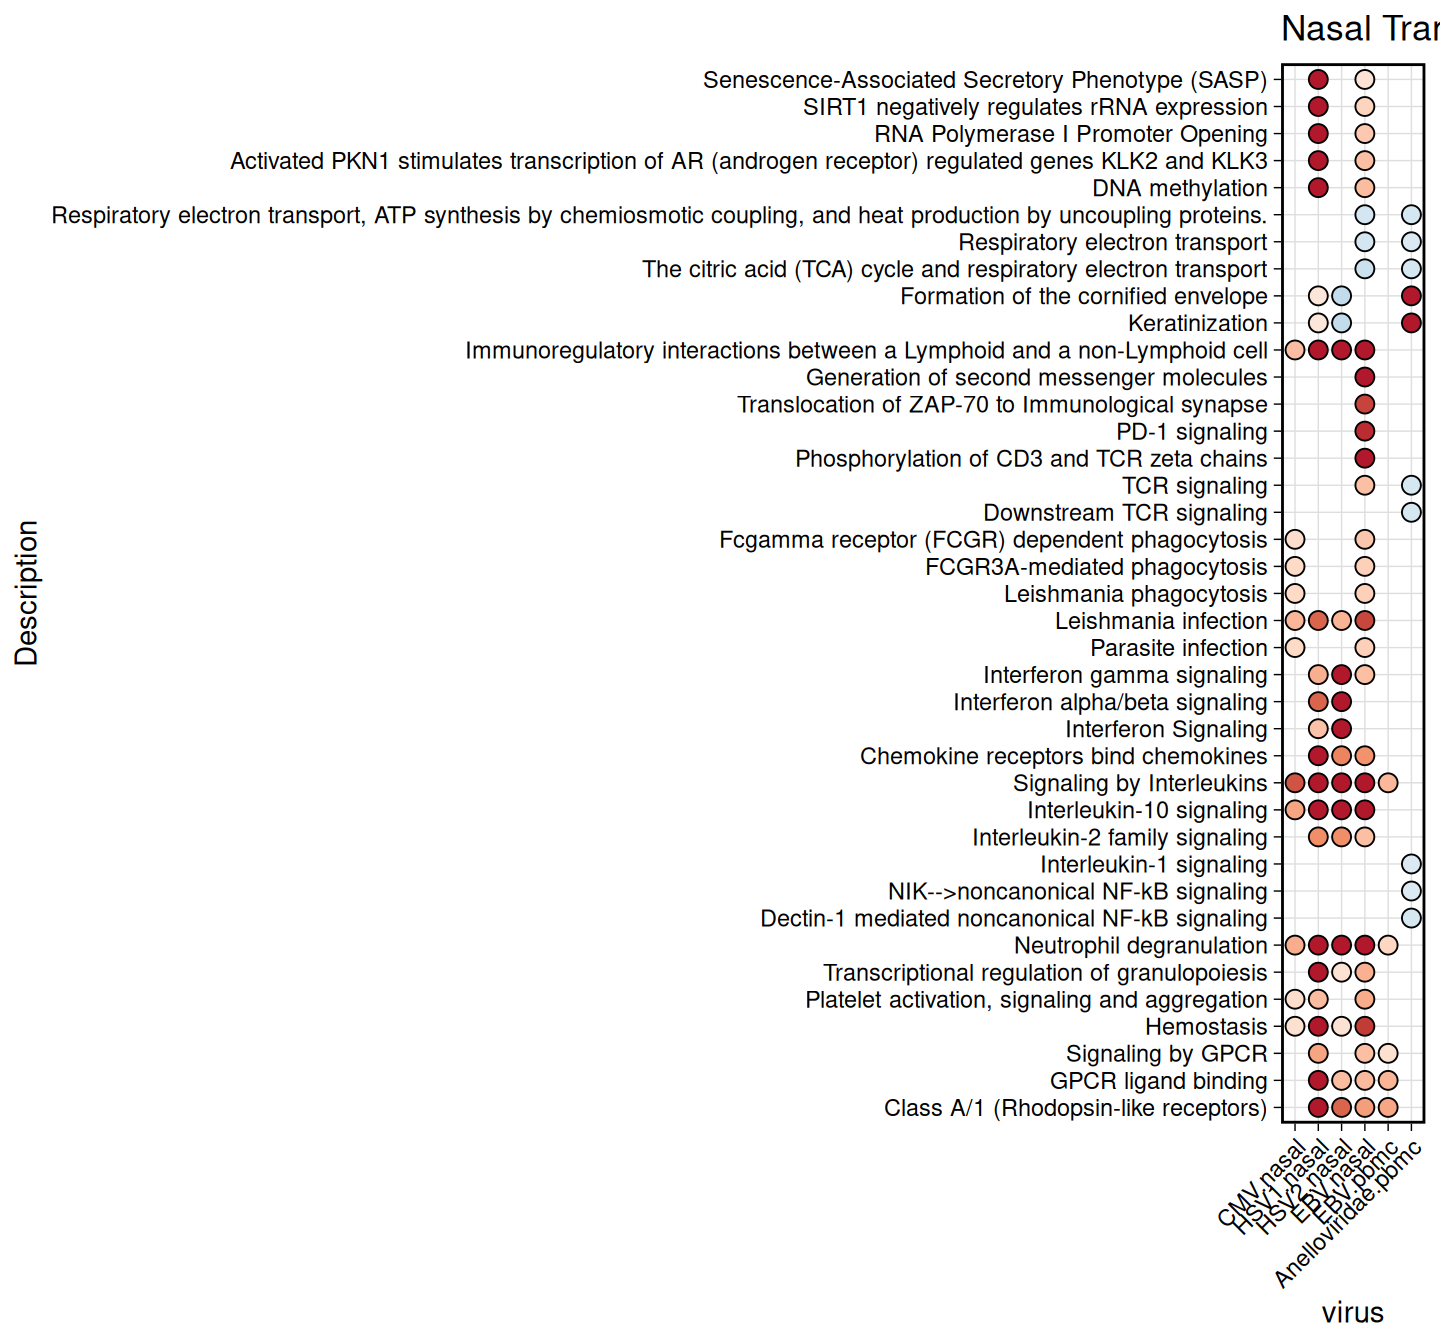
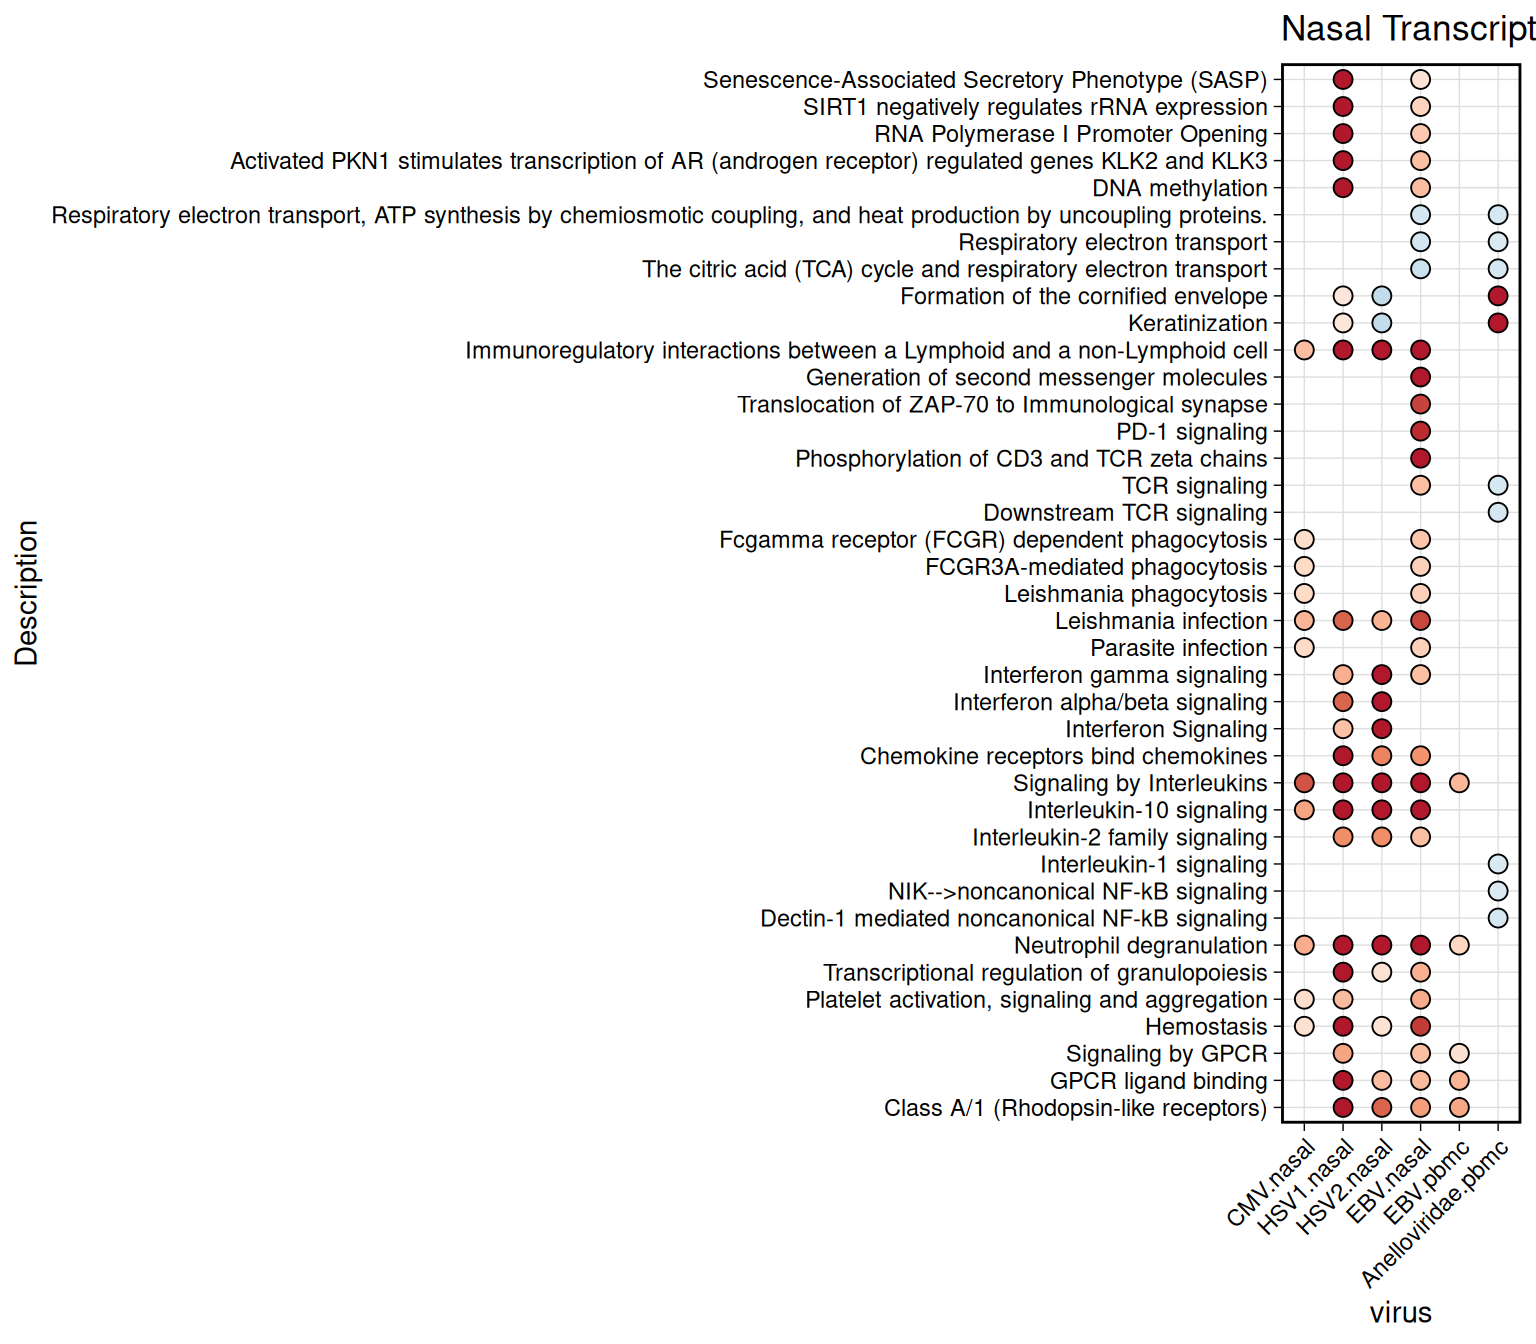
Fixed sizing in panel B of Figure 6

Changed region(s): [[0.0312, 0.0, 1.0, 1.0], [0.0, 0.375, 0.0312, 0.5]]

diff --git a/chronic_viruses_manuscript/Figure6/src/Figure6.html b/chronic_viruses_manuscript/Figure6/src/Figure6.html
@@ -888,11 +888,11 @@ Specify the column types or set `show_col_types = FALSE` to quiet this message.
 <div class="cell-output-display">
 <div>
 <figure class="figure">
-<p><img src="Figure6_files/figure-html/unnamed-chunk-6-1.png" class="img-fluid figure-img" width="720"></p>
+<p><img src="Figure6_files/figure-html/unnamed-chunk-6-1.png" class="img-fluid figure-img" width="768"></p>
 </figure>
 </div>
 </div>
-<div class="sourceCode cell-code" id="cb59"><pre class="sourceCode r code-with-copy"><code class="sourceCode r"><span id="cb59-1"><a href="#cb59-1" aria-hidden="true" tabindex="-1"></a><span class="fu">ggsave</span>(<span class="fu">paste0</span>(out_dir, <span class="st">"Figure6B.pdf"</span>), <span class="at">width =</span> <span class="fl">7.5</span>, <span class="at">height =</span> <span class="dv">7</span>)</span>
+<div class="sourceCode cell-code" id="cb59"><pre class="sourceCode r code-with-copy"><code class="sourceCode r"><span id="cb59-1"><a href="#cb59-1" aria-hidden="true" tabindex="-1"></a><span class="fu">ggsave</span>(<span class="fu">paste0</span>(out_dir, <span class="st">"Figure6B.pdf"</span>), <span class="at">width =</span> <span class="dv">8</span>, <span class="at">height =</span> <span class="dv">7</span>)</span>
 <span id="cb59-2"><a href="#cb59-2" aria-hidden="true" tabindex="-1"></a><span class="fu">write_csv</span>(ggb<span class="sc">$</span>data, <span class="fu">paste0</span>(out_dir, <span class="st">"source_data_Figure6B.csv"</span>))</span></code><button title="Copy to Clipboard" class="code-copy-button"><i class="bi"></i></button></pre></div>
 </div>
 </section>
